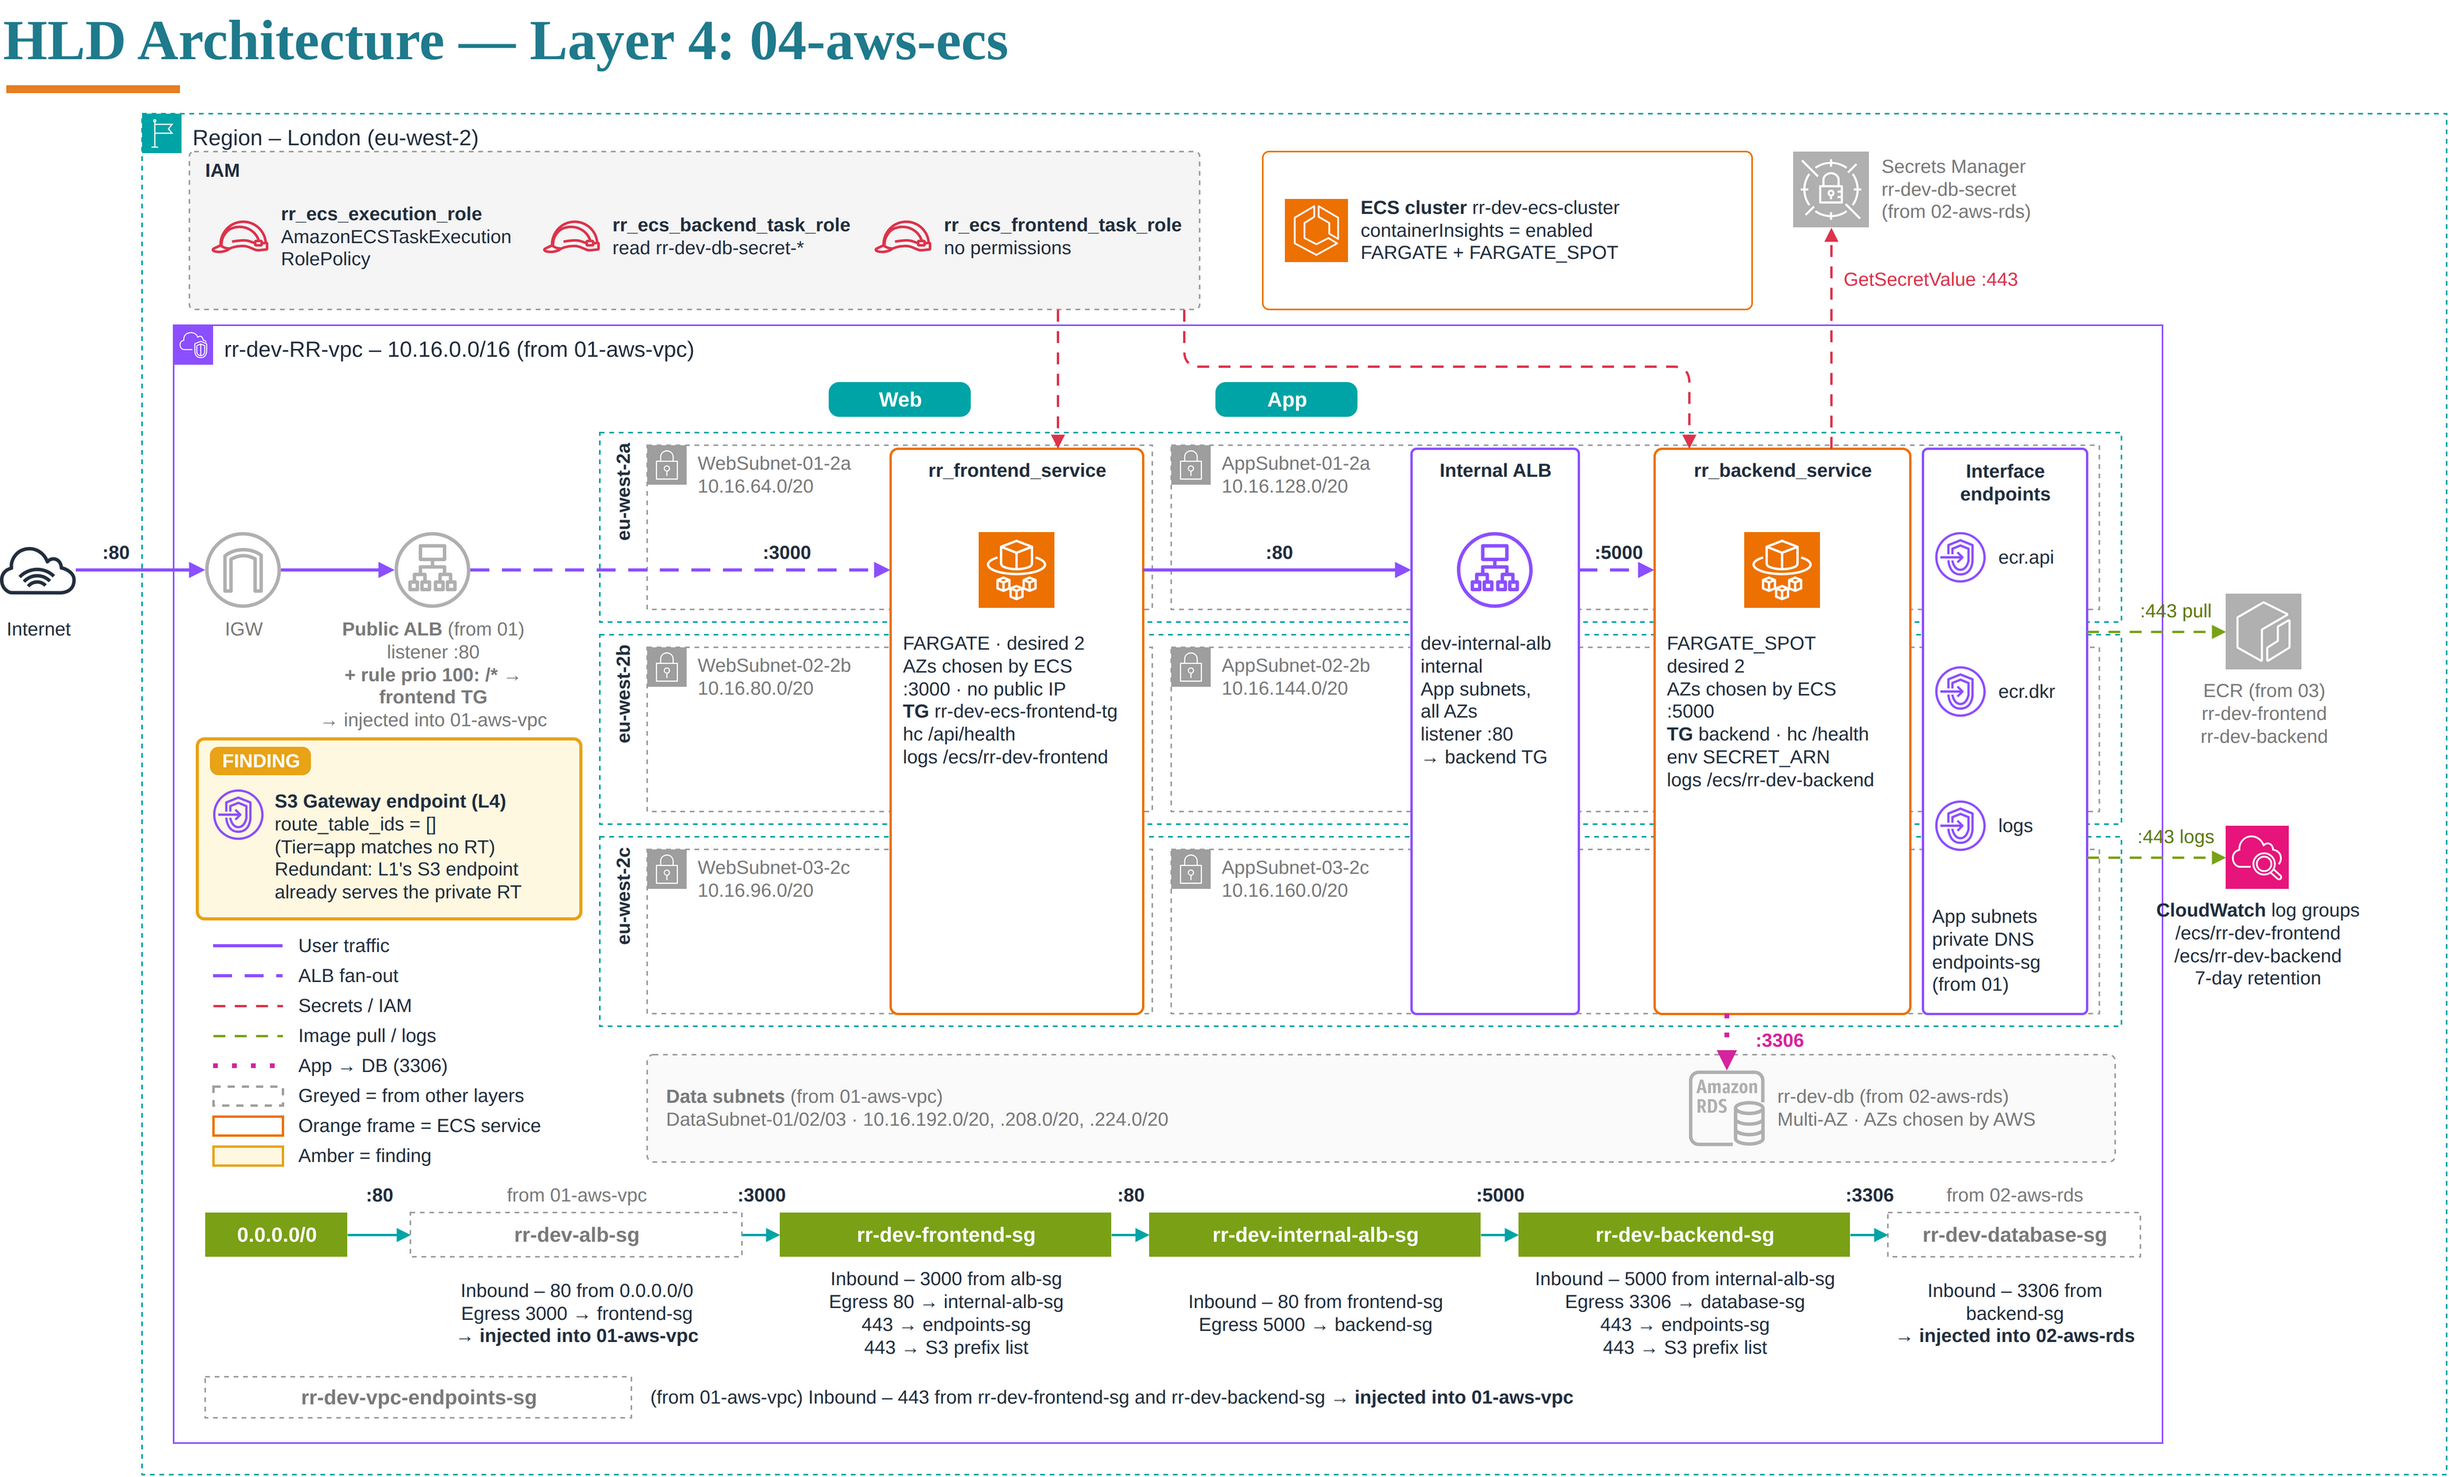
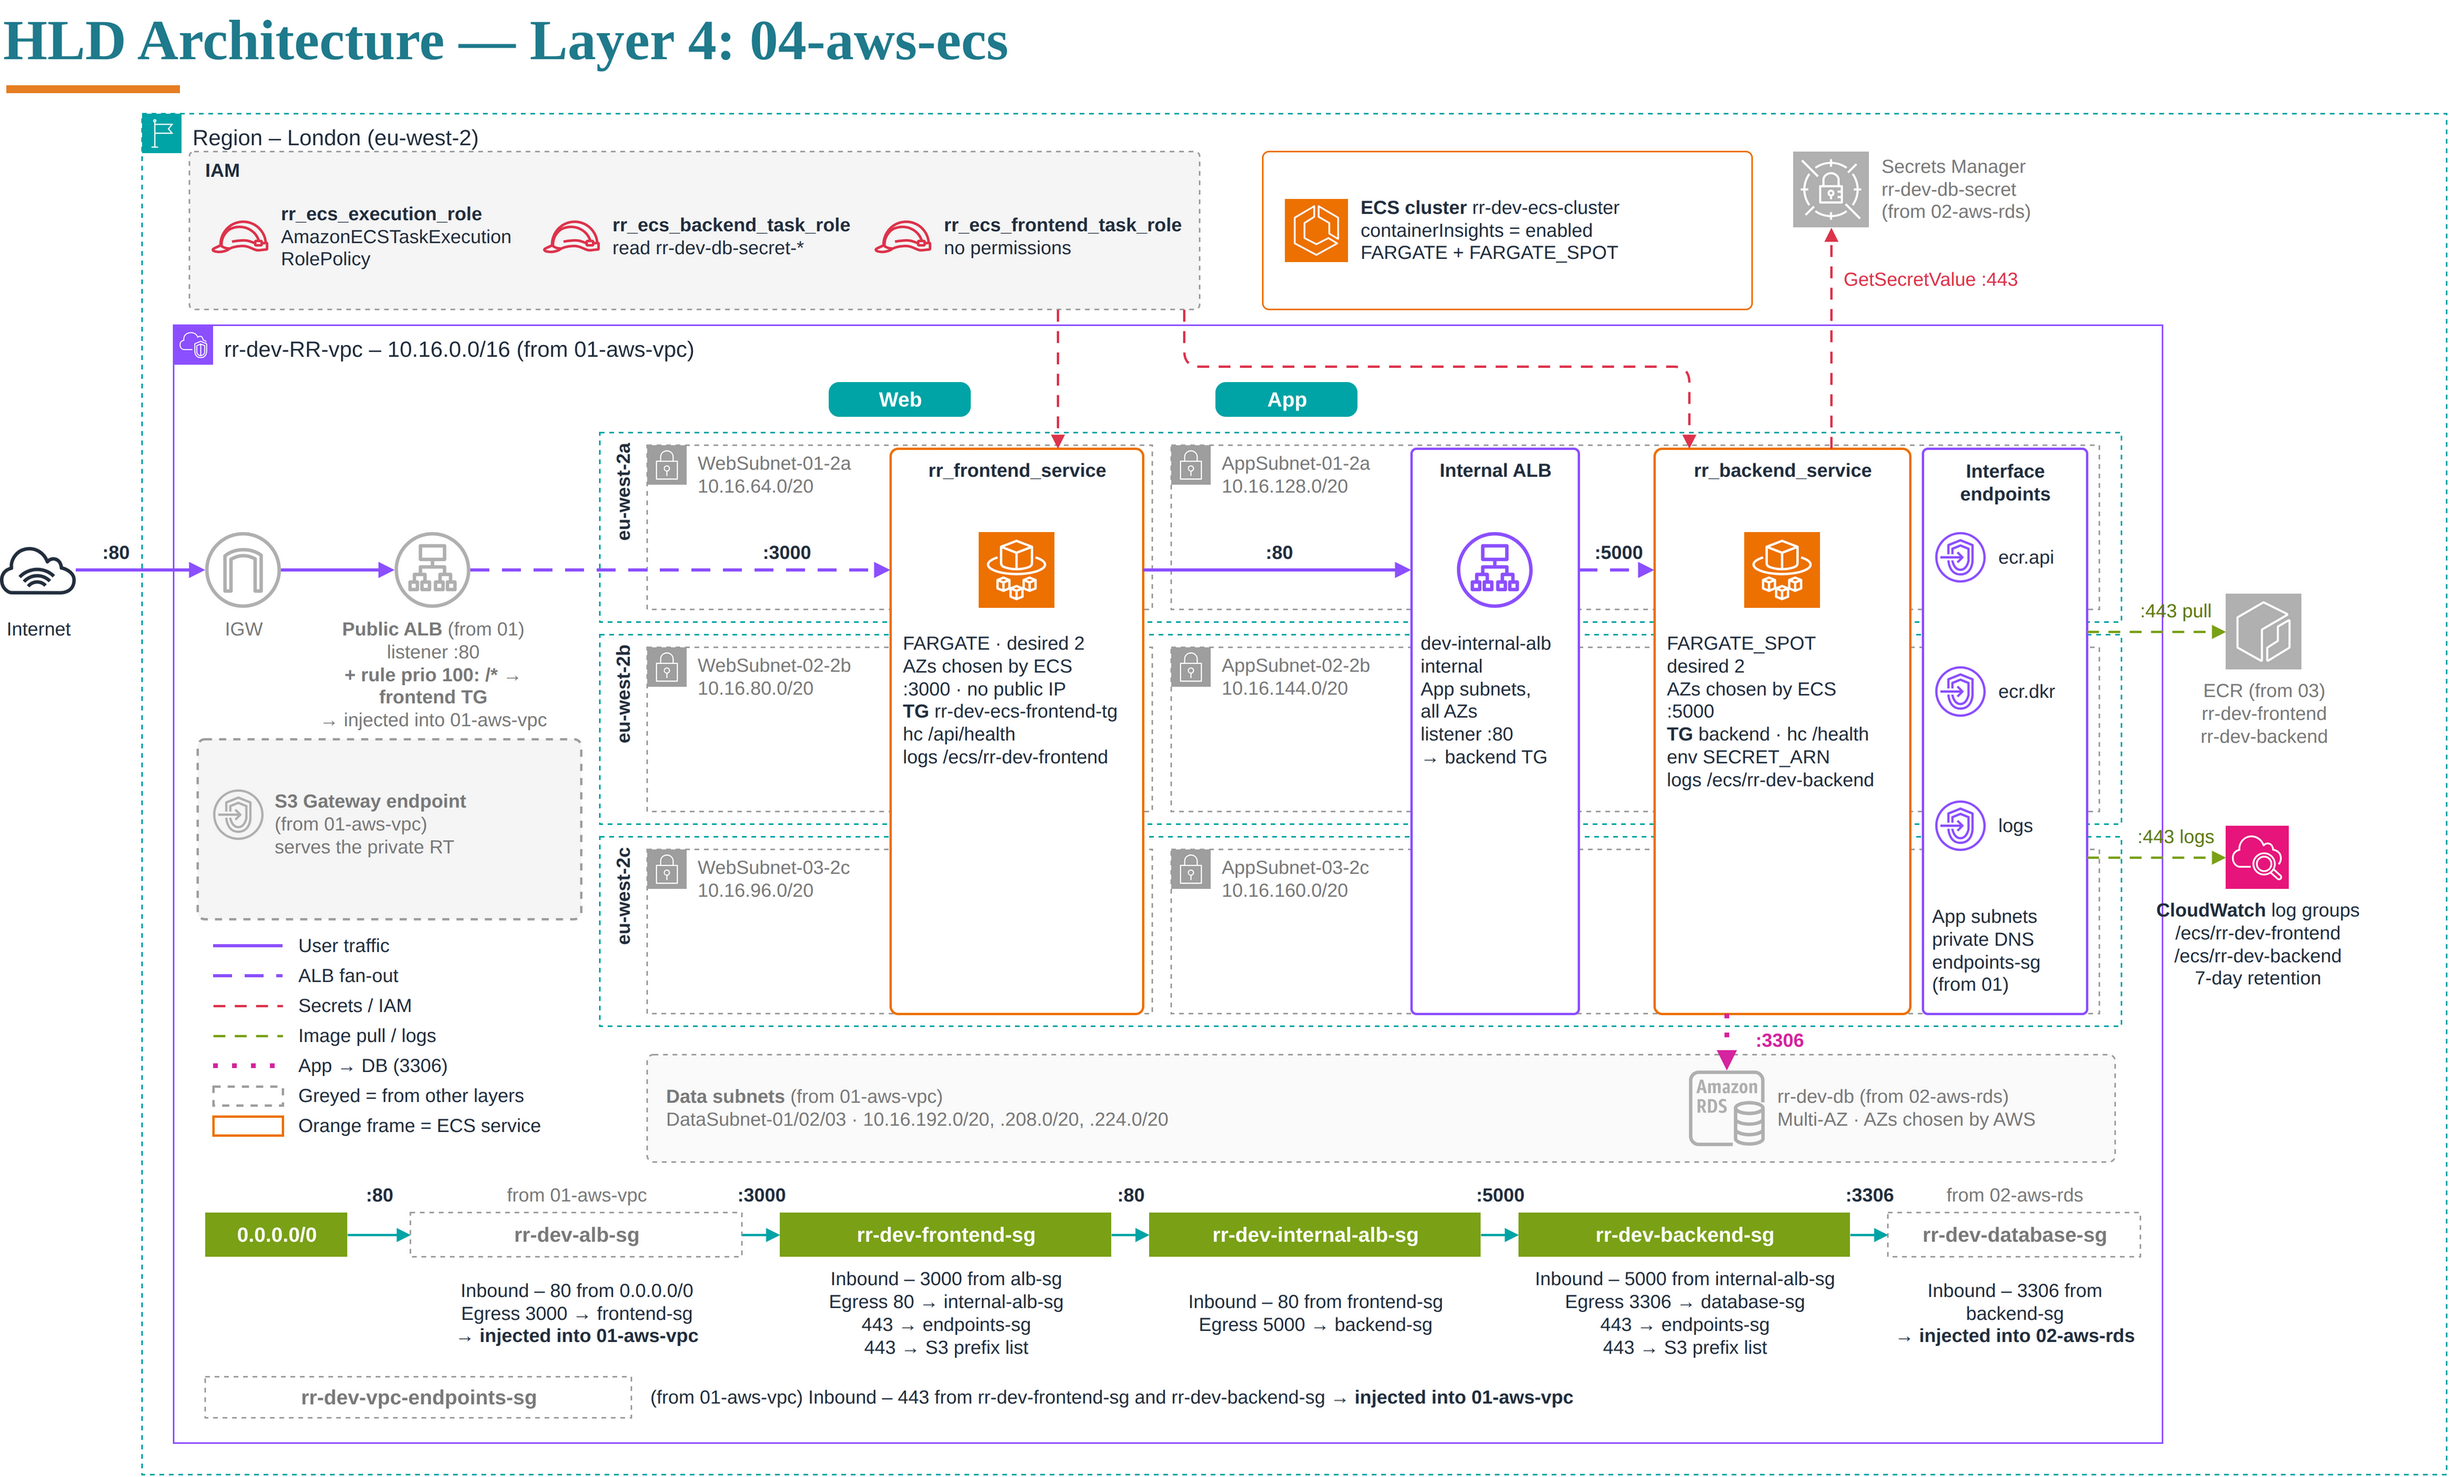
docs(hld): layer 4 — S3 endpoint is a Layer 1 reference; inventory fixes

Changed region(s): [[0.0619, 0.496, 0.2166, 0.62], [0.0928, 0.775, 0.1856, 0.806]]

diff --git a/infrastructure/04-aws-ecs/documents/hld-architecture/inventory.md b/infrastructure/04-aws-ecs/documents/hld-architecture/inventory.md
@@ -1,8 +1,7 @@
 # Layer 04-aws-ecs — HLD inventory
 
 Scope: ECS/Fargate frontend+backend, internal ALB, CW log groups,
-VPC interface endpoints (ECR/Logs), S3 Gateway endpoint, IAM task
-roles, Layer-4 SG chain. Injects a listener rule into the Layer-1
+VPC interface endpoints (ECR/Logs), IAM task roles, Layer-4 SG chain. Injects a listener rule into the Layer-1
 public ALB listener.
 
 ## Approved decisions
@@ -13,8 +12,9 @@ public ALB listener.
 - VPC Interface endpoints (`ecr.api`, `ecr.dkr`, `logs`) grouped
   in a small sub-cluster of the App subnet column.
 - Keep CloudWatch icon on this layer (CW log groups are owned here).
-- Layer-4 S3 Gateway endpoint drawn with an "orphan" annotation
-  because its `route_table_ids` resolves to `[]` (see Findings).
+- The S3 Gateway endpoint is owned by Layer 1 (`rr-dev-s3-gateway`,
+  attached to the private RT). It is drawn as a greyed, dashed
+  "from 01-aws-vpc" reference.
 
 ## Components
 
@@ -28,20 +28,21 @@ public ALB listener.
   execution role `ecs_execution_role_arn`,
   task role `ecs_frontend_task_role_arn`,
   container `rr-frontend-container-01`
-  (image `.../rr-dev-frontend:latest`, port 3000,
+  (image `.../rr-dev-frontend@<digest>` — pinned via
+  `data.aws_ecr_image`, port 3000,
   `readonlyRootFilesystem=true`, volume `nextjs-cache` mounted at
   `/app/.next/cache`), env `BACKEND_URL=http://<internal-alb>`,
   log group `/ecs/rr-dev-frontend`.
 - `aws_ecs_task_definition.rr_backend_task` — cpu 256 mem 512,
   task role `ecs_backend_task_role_arn`,
-  container `rr-backend-container-01` (image `.../rr-dev-backend:latest`,
-  port 5000, read-only root FS),
+  container `rr-backend-container-01` (image `.../rr-dev-backend@<digest>`
+  — pinned via `data.aws_ecr_image`, port 5000, read-only root FS),
   env `SECRET_ARN`, `AWS_REGION`, log group `/ecs/rr-dev-backend`.
 - `aws_ecs_service.rr_frontend_service` — `modules/ecs/services.tf` —
   desired 2, FARGATE weight=1 base=1, `health_check_grace_period_seconds=120`,
   `assign_public_ip=false`, Web subnets + frontend SG,
   load_balancer target `frontend_tg_arn` port 3000,
-  `ignore_changes=[task_definition, desired_count]`.
+  `ignore_changes=[desired_count]`.
 - `aws_ecs_service.rr_backend_service` — desired 2, `FARGATE_SPOT` weight=1,
   App subnets + backend SG, target `backend_tg_arn` port 5000.
 
@@ -64,9 +65,7 @@ public ALB listener.
   Interface in App subnets, `private_dns_enabled`, SG `endpoints_sg_id`.
 - `aws_vpc_endpoint.ecr_dkr` — Interface in App subnets.
 - `aws_vpc_endpoint.logs` — Interface in App subnets.
-- `aws_vpc_endpoint.s3` — Gateway, `route_table_ids = var.route_table_ids`
-  (see Findings — resolves to `[]`), with
-  `policy = data.aws_iam_policy_document.s3_gateway.json`.
+- No S3 Gateway endpoint in this layer; it lives in Layer 1.
 
 ### CloudWatch
 - `aws_cloudwatch_log_group.rr_frontend_logs` —
@@ -124,7 +123,6 @@ public ALB listener.
 - `data.aws_secretsmanager_secret.rr_db_secret` — name `rr-${env}-db-secret` (L2).
 - `data.aws_lb.gateway_alb` + `data.aws_lb_listener.gateway_http_listener` —
   L1 public ALB listener on port 80.
-- `data.aws_route_tables.private_rts` — filter `tag:Tier=app` (see Findings).
 
 ## Rules this layer injects into other layers
 - INTO Layer-1 `public_alb_sg`:
@@ -145,10 +143,5 @@ public ALB listener.
   `aws_lb_listener_rule.rr_ecs_frontend_rule`, priority 100,
   `/* → rr_frontend` TG.
 
-## Findings (not fixed)
-- Layer 4's S3 Gateway endpoint has `route_table_ids = []` —
-  `data.aws_route_tables.private_rts` filters by `tag:Tier=app`, and
-  no route table in this VPC carries a `Tier` tag. The endpoint is
-  created but attaches to no route table.
-- Layer 1's S3 Gateway endpoint attaches to the shared private RT and
-  serves Web/App/Database subnets; this layer's duplicate is orphan.
+## Findings
+- None specific to this layer.
